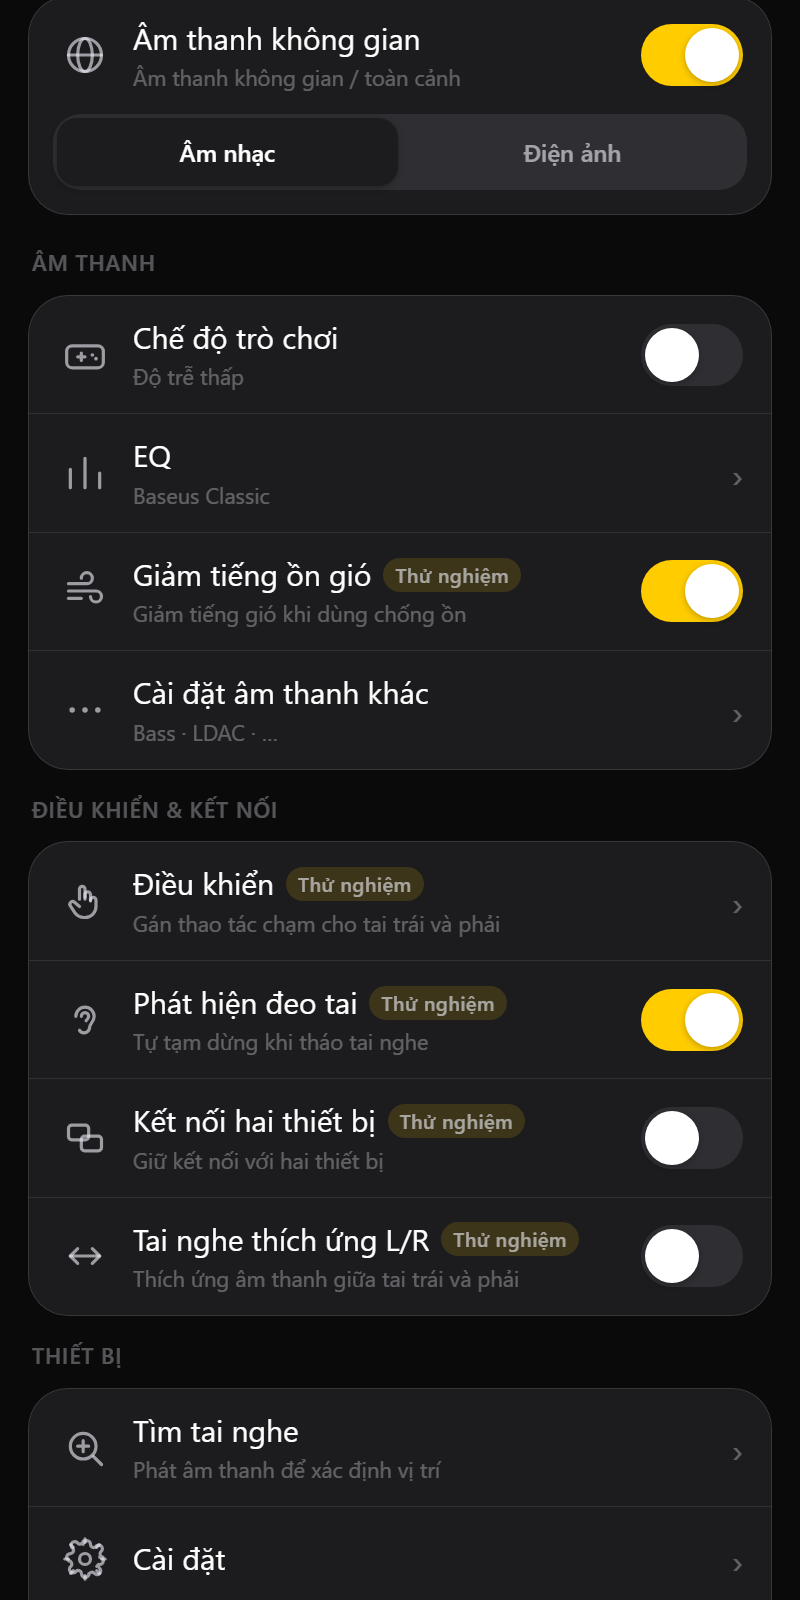
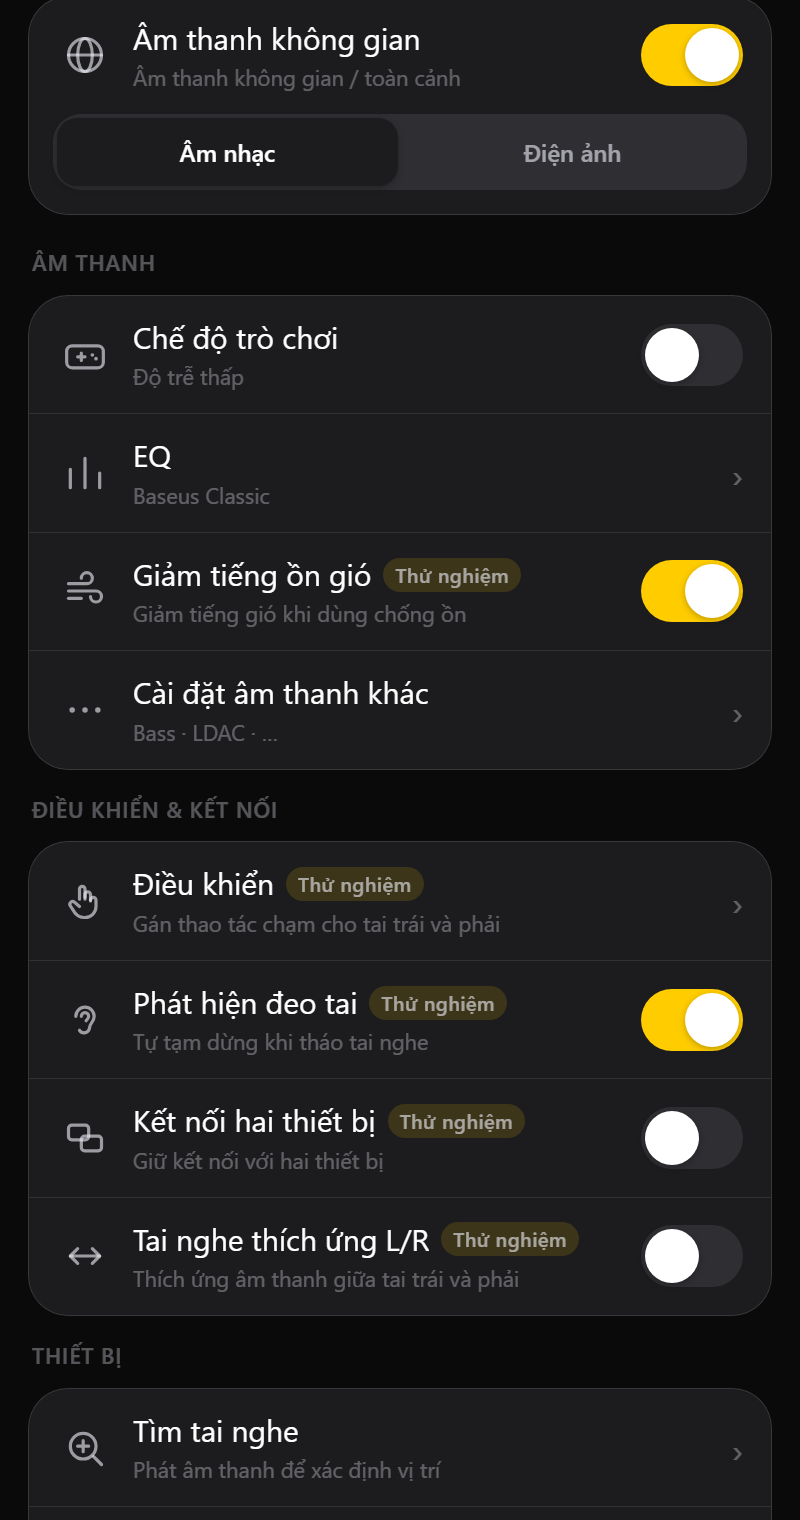
docs: use one size for the four README screenshots
Crop the window title bar from the scan and settings captures and re-capture
the control screens at the same 400x760 frame (800x1520 at 2x).

diff --git a/src/preview.tsx b/src/preview.tsx
@@ -65,7 +65,7 @@ async function start() {
         class="preview-frame"
         ref={(el) => queueMicrotask(() => { el.scrollTop = Number(params.get("scroll") ?? 0); })}
         style={bare
-          ? { width: "400px", height: "800px", overflow: "hidden", background: "var(--bg)" }
+          ? { width: "400px", height: "760px", overflow: "hidden", background: "var(--bg)" }
           : { width: "400px", background: "var(--bg)", height: "860px", overflow: "auto" }}
       >
         <section class="section section-scroll">
